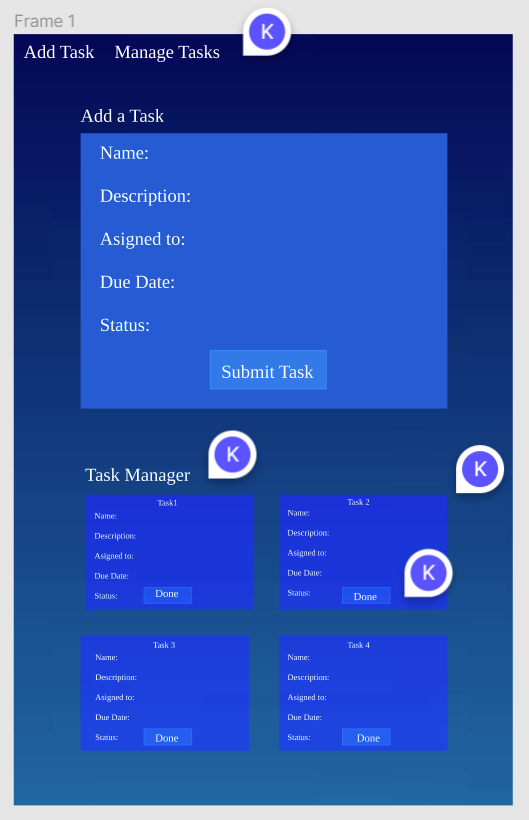
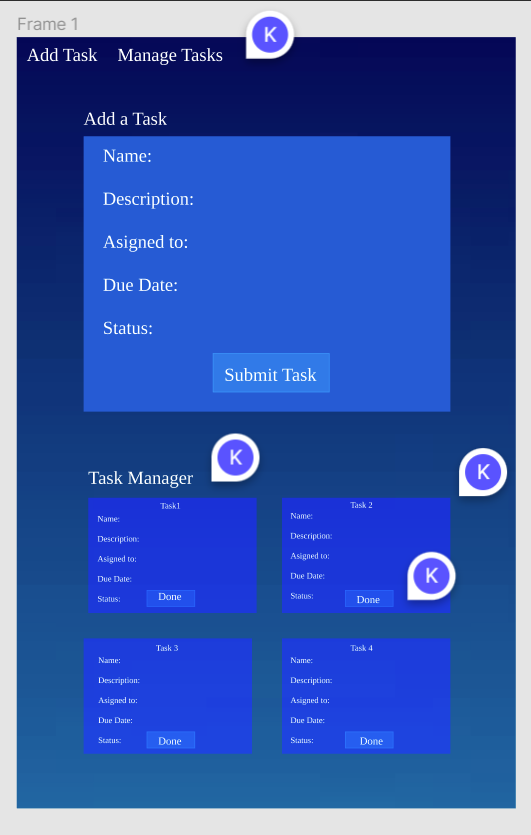
Fixed positioning of task cards, added more styling

Changed region(s): [[0.0, 0.0, 0.9981, 1.0], [0.1512, 0.122, 0.8469, 0.9146]]

diff --git a/index.html b/index.html
@@ -17,188 +17,178 @@
   <main id="image">
     <body> 
         
-          <!--Transparent, Fixed(css) NavBar-->
+          <!----------------Transparent, Fixed(css) NavBar----------------->
         <header>
           <nav class="navbar navbar-expand-lg navbar-white bg-*">
               <div class="container-fluid">
-                  <a class="navbar-brand" href="#">AllDone</a>
-                  <button class="navbar-toggler" type="button" data-bs-toggle="collapse" data-bs-target="#navbarSupportedContent" aria-controls="navbarSupportedContent" aria-expanded="false" aria-label="Toggle navigation">
-                    <span class="navbar-toggler-icon"></span>
-                  </button>
                   <div class="collapse navbar-collapse" id="navbarSupportedContent">
                     <ul class="navbar-nav me-auto mb-2 mb-lg-0">
                       <li class="nav-item">
-                        <a class="nav-link button active" aria-current="page" href="#">Add Task</a>
+                        <a class="nav-link button active" aria-current="page" href="#addtask">Add Task</a>
                       </li>
+                    
                       <li class="nav-item">
-                        <a class="nav-link button" href="#">Manage Tasks</a>
+                        <a class="nav-link button" href="#taskmanager">Manage Tasks</a>
                       </li>    
               </div>          
         </header>  
       
           <br><br><br><br>
 
-          <div class="container">
+          <div class="container-addtask">
             <div class="row">    
-              <div class="col sm-6 md-8 lg-10">
-                <!--Add a Task - Bootstrap card and forms: Name, Descrip., AssignedTo, DueDate, Status-->  
-              <div class="mx-auto" style="width: 550px;">
-                <div class="card text-dark bg-light add-task">
+                <div class="col sm-6 md-8 lg-10">
+                  <!--Add a Task - Bootstrap card and forms: Name, Descrip., AssignedTo, DueDate, Status-->  
+                <div class="mx-auto" style="width: 550px;">
+                  <div class="card text-dark bg-light add-task">
+      
+                      <form>
+                          <h1 class="card-header" id="addtask">Add a Task</h1>
+          
+                        <section class="card-body text-dark">
+                          <div class="add-task">
+                              <label for="name" class="form-label">Name</label>
+                              <input type="text" class="form-control" id="name" aria-describedby="name-of-task" placeholder="Name of Task" required>
+                          </div>
+          
+                          <br>
+          
+                          <div class="add-task">
+                              <label for="description" class="form-label">Description</label>
+                              <input type="text" class="form-control" id="description" aria-describedby="description-of-task" placeholder="Description of Task" required>
+                          </div>
+          
+                          <br>
+          
+                          <div class="add-task">
+                              <label for="assign" class="form-label">Assigned To</label>
+                              <input type="text" class="form-control" id="assign" aria-describedby="assigned-to" placeholder="Task Assigned To" required>
+                          </div>
+          
+                          <br>
+          
+                          <div class="add-task">
+                              <label for="due-date" class="form-label">Due Date</label>
+                              <input type="date" class="form-control" id="due-date" aria-describedby="due-date-of-task" required>
+                          </div>
+          
+                          <br>
+          
+                          <div class="add-task">
+                              <label for="status" class="form-label">Status</label>
+                              <input type="text" list="task-status" class="form-control" id="status" aria-describedby="status-of-task" placeholder="Status of Task" required>
+                              <datalist id="task-status">
+                                  <option value="IN PROGRESS"></option>
+                                  <option value="DONE"></option>
+                                  <option value="REVIEW"></option>
+                                  <option value="STARTED"></option> 
+                                </datalist>      
+                          </div>
+      
+                          <br>
+      
+                          <div class="task-add-button">
+                              <button type="submit" class="btn btn-secondary">Submit</button>  
+                          </div>
+                         </div>   
+                        </section>  
+                      </form> 
+                    </div> 
+                  </div>  
+                 </div> 
+              </div>
+          </div>    
+            
     
-                    <form>
-                        <h1 class="card-header">Add a Task</h1>
-        
-                      <section class="card-body text-dark">
-                        <div class="add-task">
-                            <label for="name" class="form-label">Name</label>
-                            <input type="text" class="form-control" id="name" aria-describedby="name-of-task" placeholder="Name of Task" required>
-                        </div>
-        
-                        <br>
-        
-                        <div class="add-task">
-                            <label for="description" class="form-label">Description</label>
-                            <input type="text" class="form-control" id="description" aria-describedby="description-of-task" placeholder="Description of Task" required>
-                        </div>
-        
-                        <br>
-        
-                        <div class="add-task">
-                            <label for="assign" class="form-label">Assigned To</label>
-                            <input type="text" class="form-control" id="assign" aria-describedby="assigned-to" placeholder="Task Assigned To" required>
-                        </div>
-        
-                        <br>
-        
-                        <div class="add-task">
-                            <label for="due-date" class="form-label">Due Date</label>
-                            <input type="date" class="form-control" id="due-date" aria-describedby="due-date-of-task" required>
-                        </div>
-        
-                        <br>
-        
-                        <div class="add-task">
-                            <label for="status" class="form-label">Status</label>
-                            <input type="text" list="task-status" class="form-control" id="status" aria-describedby="status-of-task" placeholder="Status of Task" required>
-                            <datalist id="task-status">
-                                <option value="IN PROGRESS"></option>
-                                <option value="DONE"></option>
-                                <option value="REVIEW"></option>
-                                <option value="STARTED"></option> 
-                              </datalist>      
-                        </div>
-    
-                        <br>
-    
-                        <div class="task-add-button">
-                            <button type="submit" class="btn btn-secondary">Submit</button>  
-                        </div>
-                       </div>   
-                      </section>  
-                    </form> 
-                  </div> 
-                </div>  
-               </div> 
-            </div>
-        </div> 
-        <!--Task Manager-->
-        <br><br><br><br>
+        <!------------------Task Manager--------------------->
+        <br><br><br><br>    
       <div class="task-manager-color">
-        <h1>Task Manager</h1>    
+        <h1 id="taskmanager">Task Manager</h1>    
       </div>  
         <br>
-        <!--Row 1 -->
-        <div class="row">
-            <!--Task 1 -->
-            <div class="col-lg-6 mb-4">
-                <div class="card" style="width: 25rem;">
-                    <div class="card-body">
-                        <h5 class="card-title">Name: Kharmalina Wireframe</h5>
-                        <p class="card-text">Description: Create a wireframe in Figma and share with team to see</p>
+        <div class="container">
+            <div class="row gy-3">
+                <!----------------Task 1 ------------->
+                <div class="col-sm-1 card card-body bg-light text-dark  m-3">                
+                    <div class="p-3">
+                        <h3>Task 1</h3>
+                        <h5 class="card-title">Name: Wireframe</h5>
+                        <p class="card-text">Description: Create a wireframe in Figma</p>
                         <p class="card-text">Assigned To: Kharmalina </p>
                         <p class="card-text">Due Date: 02/14/2022</p>
                         <p class="card-text">Status: DONE</p>
-                        <a href="#" class="btn btn-primary">Delete</a>
-                      </div>
+                        <div><a href="#" class="btn btn-primary">Delete</a></div>
+                    </div>
                 </div>
-            </div>
-            <!--Task 2-->
-            <div class="col-lg-6 mb-4">
-                <div class="card" style="width: 25rem;">
-                    <div class="card-body">
+                <!----------------Task 2 ------------->
+                <div class="col-sm-1 card card-body bg-light text-dark  m-3">
+                    <div class="p-3">
+                        <h3>Task 2</h3>
                         <h5 class="card-title">Name: Create GitHub Repo</h5>
-                        <p class="card-text">Description: Create a Private GitHub Repo & add my team as collaborators</p>
+                        <p class="card-text">Description: Create a Private GitHub Repo</p>
                         <p class="card-text">Assigned To: Kharmalina </p>
                         <p class="card-text">Due Date: 02/14/2022</p>
                         <p class="card-text">Status: DONE</p>
-                        <a href="#" class="btn btn-primary">Delete</a>
-                      </div>
+                        <div><a href="#" class="btn btn-primary">Delete</a></div>
+                    </div>
                 </div>
-            </div>
-        </div>
-        <!--Row 2-->
-        <div class="row">
-            <!--Task 3-->
-            <div class="col-lg-6 mb-4">
-                <div class="card" style="width: 25rem;">
-                    <div class="card-body">
-                        <h5 class="card-title">Name: Bootstrap and HTML5</h5>
-                        <p class="card-text">Description: Create branches and contribute to the repo</p>
-                        <p class="card-text">Assigned To: Tanya, Davis, Kharmalina and Jacob </p>
-                        <p class="card-text">Due Date: 02/14/2022</p>
-                        <p class="card-text">Status: IN PROGRESS</p>
-                        <a href="#" class="btn btn-primary">Delete</a>
-                      </div>
+                <div class="row gy-3">
+                    <!----------------Task 3 ------------->
+                    <div class="col-sm-1 card card-body bg-light text-dark  m-3">
+                        <div class="p-3">
+                            <h3>Task 3</h3>
+                            <h5 class="card-title">Name: Bootstrap and HTML5</h5>
+                            <p class="card-text">Description: Create branches and contribute to the repo</p>
+                            <p class="card-text">Assigned To: Tanya, Davis, Kharmalina and Jacob </p>
+                            <p class="card-text">Due Date: 02/14/2022</p>
+                            <p class="card-text">Status: IN PROGRESS</p>
+                            <div><a href="#" class="btn btn-primary">Delete</a></div>
+                        </div>
+                    </div>
+    
+                    <!----------------Task 4 ------------->
+                    <div class="col-sm-1 card card-body bg-light text-dark  m-3">
+                        <div class="p-3">
+                            <h3>Task 4</h3>
+                            <h5 class="card-title">Name: Team Meeting on Feb. 12</h5>
+                            <p class="card-text">Description: Meet up with the team to discuss Sprint 1</p>
+                            <p class="card-text">Assigned To: Davis, Tanya, Kharmalina and Jacob </p>
+                            <p class="card-text">Due Date: 02/14/2022</p>
+                            <p class="card-text">Status: IN PROGRESS</p>
+                            <div><a href="#" class="btn btn-primary">Delete</a></div>
+                        </div>
+                    </div>
                 </div>
-            </div>
-            <!--Task 4-->
-            <div class="col-lg-6 mb-4">
-                <div class="card" style="width: 25rem;">
-                    <div class="card-body">
-                        <h5 class="card-title">Name: Team Meeting on Feb. 12</h5>
-                        <p class="card-text">Description: Meet up with the team to discuss Sprint 1</p>
-                        <p class="card-text">Assigned To: Davis, Tanya, Kharmalina and Jacob </p>
-                        <p class="card-text">Due Date: 02/14/2022</p>
-                        <p class="card-text">Status: IN PROGRESS</p>
-                        <a href="#" class="btn btn-primary">Delete</a>
-                      </div>
+    
+                <div class="row g-3">
+                    <!----------------Task 5 ------------->
+                    <div class="col-sm-1 card card-body bg-light text-dark  m-3">
+                        <div class="p-3">
+                            <h3>Task 5</h3>
+                            <h5 class="card-title">Name: Self Care</h5>
+                            <p class="card-text">Description: Take time away from coding to do something you enjoy</p>
+                            <p class="card-text">Assigned To: Jacob, Kharmalina, Davis and Tanya</p>
+                            <p class="card-text">Due Date: 02/14/2022</p>
+                            <p class="card-text">Status: IN PROGRESS</p>
+                            <div><a href="#" class="btn btn-primary">Delete</a></div>
+                        </div>
+                    </div>
+                    <!----------------Task 6 ------------->
+                    <div class="col-sm-1 card card-body bg-light text-dark  m-3">
+                        <div class="p-3">
+                            <h3>Task 6</h3>
+                            <h5 class="card-title">Name: Motivation</h5>
+                            <p class="card-text">Description: Don't Give Up!</p>
+                            <p class="card-text">Assigned To: Everyone at GenUSA jwd-flex-Cohort2 </p>
+                            <p class="card-text">Due Date: 04/21/2022</p>
+                            <p class="card-text">Status: IN PROGRESS</p>
+                            <div><a href="#" class="btn btn-primary">Delete</a></div>
+                        </div>
+                    </div>
                 </div>
-            </div>
-        </div>
-        <!--Row 3 -->
-        <div class="row">
-            <!--Task 5-->
-            <div class="col-lg-6 mb-4">
-                <div class="card" style="width: 25rem;">
-                    <div class="card-body">
-                        <h5 class="card-title">Name: Self Care</h5>
-                        <p class="card-text">Description: Take time away from coding to do something you enjoy</p>
-                        <p class="card-text">Assigned To: Jacob, Kharmalina, Davis and Tanya</p>
-                        <p class="card-text">Due Date: 02/14/2022</p>
-                        <p class="card-text">Status: IN PROGRESS</p>
-                        <a href="#" class="btn btn-primary">Delete</a>
-                      </div>
-                </div>
-            </div>
-            <!--Task 6-->
-            <div class="col-lg-6 mb-4">
-                <div class="card" style="width: 25rem;">
-                    <div class="card-body">
-                        <h5 class="card-title">Name: Motivation</h5>
-                        <p class="card-text">Description: Don't Give Up! We are doing an awesome job!</p>
-                        <p class="card-text">Assigned To: Everyone at GenUSA jwd-flex-Cohort2 </p>
-                        <p class="card-text">Due Date: 04/21/2022</p>
-                        <p class="card-text">Status: IN PROGRESS</p>
-                        <a href="#" class="btn btn-primary">Delete</a>
-                      </div>
-                </div>
-            </div>
-        </div>
-
 </main>    
     
 
-  
   
 
 

diff --git a/css/style.css b/css/style.css
@@ -17,18 +17,21 @@ body, html {
 
 .container {
     display: grid;
+    opacity: 0.9;
 }
 
 .navbar .container-fluid a {
-    color: #fff;
+    color: rgb(201, 201, 201);
+    z-index: 5;
   }
 
   .navbar {
     overflow: hidden;
-    background-color: transparent;
+    background-color:#001069;
     position: fixed;
     top: 0;
     width: 100%;
+    z-index: 5;
   }
 
   a.button {
@@ -36,13 +39,15 @@ body, html {
     width: 135px;
     padding: 2px 2px;
     border-radius: 5px;
-    border: 1.4px solid white;
+    border: 1.4px solid rgb(201, 201, 201);
     margin: auto;
     background-color: transparent;
     text-align: center;
     font-family: Helvetica;
     font-size: 18px;
-    color: mintcream;     
+    color: mintcream;
+    margin: 5px;   
+    z-index: 5;  
   }
 
   .task-add-button {
@@ -60,5 +65,9 @@ body, html {
   }
 
  .task-manager-color h1 {
-     color: white;
+     color: rgb(201, 201, 201);
+ }
+
+ .mx-5 {
+   margin-left: 5%;
  }
